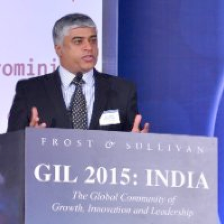
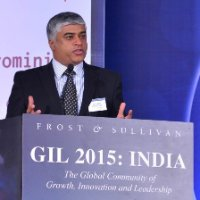
Fix Speakers page UI

diff --git a/src/app/home/speakers/speakers.component.html b/src/app/home/speakers/speakers.component.html
@@ -2,22 +2,21 @@
   <div layout-gt-sm="row">
     <md-card flex-gt-sm="50" style="margin: 1em">
       <div layout-md="column" layout-sm="column" layout-xs="column">
-        <img class="speakers-photo-case" src="assets/kaushik.png">
+        <img class="speakers-photo-case" src="assets/nandini.jpg">
         <div layout="column">
           <div class="speakers-detail">
-            <div class="speaker-name">Kaushik Madhavan</div>
-            <div class="speaker-designation">Director - Automotive & Transportation</div>
-            <div class="speaker-organisation">Frost & Sullivan</div>
+            <div class="speaker-name">Nandini Vaidyanathan</div>
+            <div class="speaker-designation">Founder and Mentor</div>
+            <div class="speaker-organisation">CARMa Venture Services</div>
           </div>
           <div>
             <div class="speaker-info">
-              Currently working with Frost & Sullivan, managing the Automotive & Transportation business unit for Middle East, North Africa and and South Asia.
+             Having spent 20 years in the corporate sector as a senior management professional in MNC's on all inhabited continents, I now enjoy sharing that experience with and learning from aspiring and practicing entrepreneurs across the globe. 
             </div>
           </div>
           <div class="social-icon-section">
             <div>
               <a href="#" mdTooltip="Facebook" title="Facebook" class="social-icons fb"></a>
-              <a href="#" mdTooltip="Twitter" title="Twitter" class="social-icons twitter"></a>
               <a href="#" mdTooltip="LinkedIn" title="LinkedIn" class="social-icons linkedIn"></a>
             </div>
             <div class="speaker_more">
@@ -166,4 +165,62 @@
       </div>
     </md-card>
   </div>
+  <div layout-gt-sm="row">
+    <md-card flex-gt-sm="50" style="margin: 1em">
+      <div layout-md="column" layout-sm="column" layout-xs="column">
+        <img class="speakers-photo-case" src="assets/michael.jpg">
+        <div layout="column">
+          <div class="speakers-detail">
+            <div class="speaker-name">Michael Gord</div>
+            <div class="speaker-designation">Blockchain Developer</div>
+            <div class="speaker-organisation">MLG Blockchain Consulting</div>
+          </div>
+          <div>
+            <div class="speaker-info">
+              Michael is a blockchain developer at TD and the founder of Bitcoin Canada and the McGill Cryptocurrency Club. While at McGill, Michael organized the Bitcoin Airdrop events where he gave hundreds of students their first bitcoin..
+            </div>
+          </div>
+          <div class="social-icon-section">
+            <div>
+              <a href="#" mdTooltip="LinkedIn" title="LinkedIn" class="social-icons linkedIn"></a>
+            </div>
+            <div class="speaker_more">
+              More
+            </div>
+          </div>
+        </div>
+      </div>
+    </md-card>
+    <md-card flex-gt-sm="50" style="margin: 1em">
+      <div layout-md="column" layout-sm="column" layout-xs="column">
+        <img class="speakers-photo-case" src="assets/satish-babu.jpg">
+        <div layout="column">
+          <div class="speakers-detail">
+            <div class="speaker-name">Satish Babu</div>
+            <div class="speaker-designation">Chair, APRALO</div>
+            <div class="speaker-organisation">ICANN</div>
+          </div>
+          <div>
+            <div class="speaker-info">
+              Programmer, Development Professional and Internet Governance Practitioner, associated with ICANN, ISOC, IEEE and InApp. Fellow and Past President of Computer Society of India. Chair, APRALO, ICANN and Member, 2017 HAC, IEEE.
+            </div>
+          </div>
+          <div class="social-icon-section">
+            <div>
+              <a href="#" mdTooltip="LinkedIn" title="LinkedIn" class="social-icons linkedIn"></a>
+            </div>
+            <div class="speaker_more">
+              More
+            </div>
+          </div>
+        </div>
+      </div>
+    </md-card>
+  </div>
+
+
+
+
+
+
 </section>

diff --git a/src/styles/styles.scss b/src/styles/styles.scss
@@ -251,8 +251,8 @@ a {
 
 .speakers-photo-case {
   display: block;
-  height: 225px;
-  width: 225px;
+  height: 194px;
+  width: 194px;
   float: left;
 }
 
